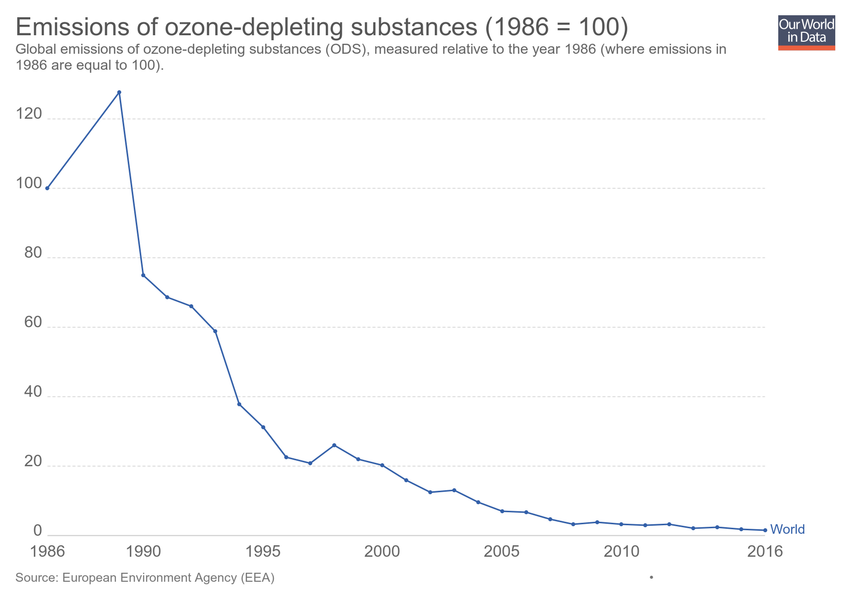
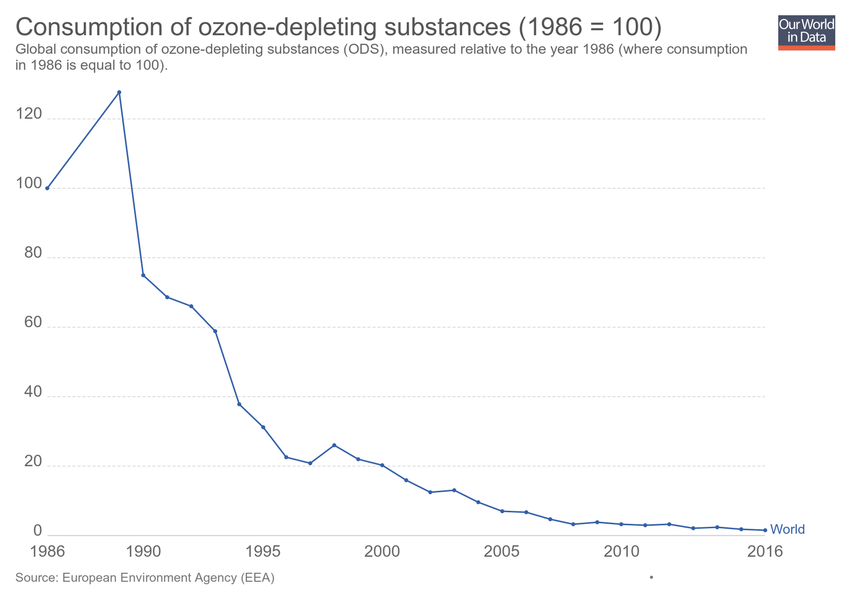
Updating chart ozone-depleting-substances-index

Changed region(s): [[0.0, 0.03, 0.8871, 0.12]]

diff --git a/grapher/ozone-depleting-substances-index.html b/grapher/ozone-depleting-substances-index.html
@@ -1,4 +1,4 @@
-<!doctype html><html><head><meta name="viewport" content="width=device-width, initial-scale=1" /><title>Emissions of ozone-depleting substances (1986 = 100) - Our World in Data</title><meta name="description" content="Global emissions of ozone-depleting substances (ODS), measured relative to the year 1986 (where emissions in 1986 are equal to 100). " /><link rel="canonical" href="https://ourworldindata.org/grapher/ozone-depleting-substances-index" /><meta property="fb:app_id" content="1149943818390250" /><meta property="og:url" content="https://ourworldindata.org/grapher/ozone-depleting-substances-index" /><meta property="og:title" content="Emissions of ozone-depleting substances (1986 = 100)" /><meta property="og:description" content="Global emissions of ozone-depleting substances (ODS), measured relative to the year 1986 (where emissions in 1986 are equal to 100). " /><meta property="og:image" content="https://ourworldindata.org/grapher/exports/ozone-depleting-substances-index.png?v=1" /><meta property="og:image:width" content="850" /><meta property="og:image:height" content="600" /><meta property="og:site_name" content="Our World in Data" /><meta name="twitter:card" content="summary_large_image" /><meta name="twitter:site" content="@OurWorldInData" /><meta name="twitter:creator" content="@OurWorldInData" /><meta name="twitter:title" content="Emissions of ozone-depleting substances (1986 = 100)" /><meta name="twitter:description" content="Global emissions of ozone-depleting substances (ODS), measured relative to the year 1986 (where emissions in 1986 are equal to 100). " /><meta name="twitter:image" content="https://ourworldindata.org/grapher/exports/ozone-depleting-substances-index.png?v=1" /><style>
+<!doctype html><html><head><meta name="viewport" content="width=device-width, initial-scale=1" /><title>Consumption of ozone-depleting substances (1986 = 100) - Our World in Data</title><meta name="description" content="Global consumption of ozone-depleting substances (ODS), measured relative to the year 1986 (where consumption in 1986 is equal to 100). " /><link rel="canonical" href="https://ourworldindata.org/grapher/ozone-depleting-substances-index" /><meta property="fb:app_id" content="1149943818390250" /><meta property="og:url" content="https://ourworldindata.org/grapher/ozone-depleting-substances-index" /><meta property="og:title" content="Consumption of ozone-depleting substances (1986 = 100)" /><meta property="og:description" content="Global consumption of ozone-depleting substances (ODS), measured relative to the year 1986 (where consumption in 1986 is equal to 100). " /><meta property="og:image" content="https://ourworldindata.org/grapher/exports/ozone-depleting-substances-index.png?v=2" /><meta property="og:image:width" content="850" /><meta property="og:image:height" content="600" /><meta property="og:site_name" content="Our World in Data" /><meta name="twitter:card" content="summary_large_image" /><meta name="twitter:site" content="@OurWorldInData" /><meta name="twitter:creator" content="@OurWorldInData" /><meta name="twitter:title" content="Consumption of ozone-depleting substances (1986 = 100)" /><meta name="twitter:description" content="Global consumption of ozone-depleting substances (ODS), measured relative to the year 1986 (where consumption in 1986 is equal to 100). " /><meta name="twitter:image" content="https://ourworldindata.org/grapher/exports/ozone-depleting-substances-index.png?v=2" /><style>
         html, body {
             height: 100%;
             margin: 0;
@@ -20,8 +20,8 @@
         }
     </style><noscript><style>
                     figure { display: none !important; }
-                </style></noscript><link rel="stylesheet" href="https://ourworldindata.org/grapher/assets/commons.bundle.dcbbe53805c487d5e57617b10ac73a8a.css" /><link rel="preload" href="/grapher/data/variables/97433.json?v=1" as="fetch" crossorigin /></head><body class="singleChart"><figure data-grapher-src="/grapher/ozone-depleting-substances-index"></figure><noscript id="fallback"><img src="/grapher/exports/ozone-depleting-substances-index.svg" /><p>Interactive visualization requires JavaScript</p></noscript><script src="https://cdn.polyfill.io/v2/polyfill.min.js?features=es6,fetch"></script><script src="https://ourworldindata.org/grapher/assets/commons.bundle.da523acc49807a06a11f.js"></script><script src="https://ourworldindata.org/grapher/assets/charts.bundle.da523acc49807a06a11f.js"></script><script>
-        var jsonConfig = {"map":{"projection":"World","colorSchemeLabels":[],"colorSchemeValues":[],"customNumericColors":[],"customCategoryColors":{},"customCategoryLabels":{},"customHiddenCategories":{}},"tab":"chart","slug":"ozone-depleting-substances-index","type":"LineChart","title":"Emissions of ozone-depleting substances (1986 = 100)","xAxis":{"scaleType":"linear"},"yAxis":{"min":0,"scaleType":"linear"},"version":1,"subtitle":"Global emissions of ozone-depleting substances (ODS), measured relative to the year 1986 (where emissions in 1986 are equal to 100). ","hasMapTab":false,"stackMode":"absolute","dimensions":[{"display":{},"property":"y","variableId":97433}],"sourceDesc":"European Environment Agency (EEA)","hasChartTab":true,"isPublished":true,"selectedData":[{"index":0,"entityId":355}],"addCountryMode":"add-country","id":2647};
+                </style></noscript><link rel="stylesheet" href="https://ourworldindata.org/grapher/assets/commons.bundle.dcbbe53805c487d5e57617b10ac73a8a.css" /><link rel="preload" href="/grapher/data/variables/97433.json?v=2" as="fetch" crossorigin /></head><body class="singleChart"><figure data-grapher-src="/grapher/ozone-depleting-substances-index"></figure><noscript id="fallback"><img src="/grapher/exports/ozone-depleting-substances-index.svg" /><p>Interactive visualization requires JavaScript</p></noscript><script src="https://cdn.polyfill.io/v2/polyfill.min.js?features=es6,fetch"></script><script src="https://ourworldindata.org/grapher/assets/commons.bundle.da523acc49807a06a11f.js"></script><script src="https://ourworldindata.org/grapher/assets/charts.bundle.da523acc49807a06a11f.js"></script><script>
+        var jsonConfig = {"id":2647,"map":{"projection":"World","colorSchemeLabels":[],"colorSchemeValues":[],"customNumericColors":[],"customCategoryColors":{},"customCategoryLabels":{},"customHiddenCategories":{}},"tab":"chart","slug":"ozone-depleting-substances-index","type":"LineChart","title":"Consumption of ozone-depleting substances (1986 = 100)","xAxis":{"scaleType":"linear"},"yAxis":{"min":0,"scaleType":"linear"},"version":2,"subtitle":"Global consumption of ozone-depleting substances (ODS), measured relative to the year 1986 (where consumption in 1986 is equal to 100). ","hasMapTab":false,"stackMode":"absolute","dimensions":[{"display":{},"property":"y","variableId":97433}],"sourceDesc":"European Environment Agency (EEA)","hasChartTab":true,"isPublished":true,"selectedData":[{"index":0,"entityId":355}],"addCountryMode":"add-country"};
         var figure = document.getElementsByTagName("figure")[0];
         try {
             window.App = {};
